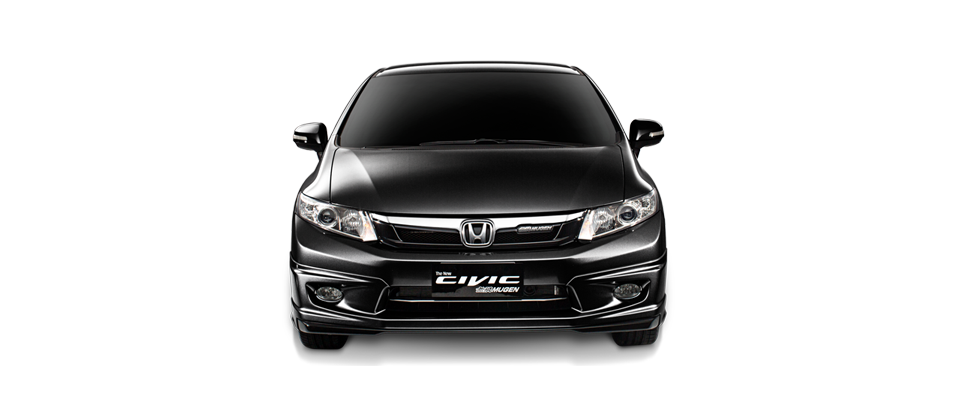
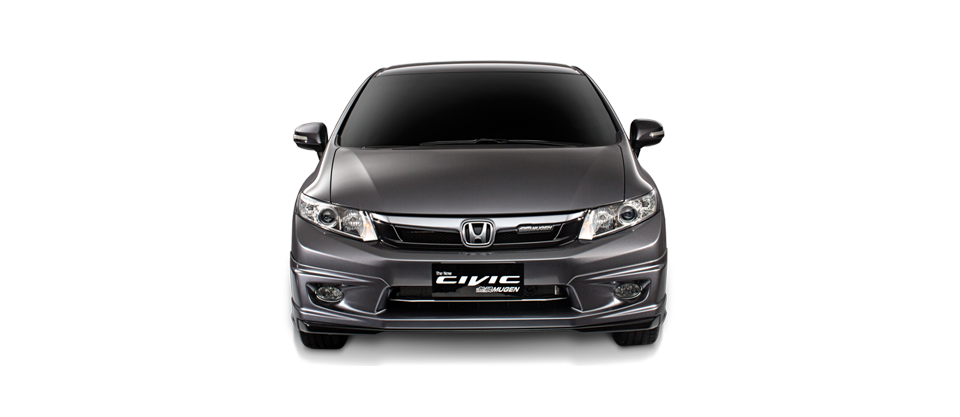
fix default car - civic

Changed region(s): [[0.2812, 0.2182, 0.7188, 0.8106], [0.375, 0.1247, 0.625, 0.2182]]

diff --git a/index.html b/index.html
@@ -703,12 +703,12 @@
 								<div class="customizer-container civic-div-car-color pull-left">
 										<p class="customizer-title">CAR PAINT</p>
 										<p class="customizer-info">Select a color for your car.</p>
-										<div class="civic-customizer-color-1 customizer-item-3 pull-left customizer-selector type-color type-default-color"><img src="images/assets/civic/buttons/color/1.png" alt="Crystal Black Pearl" width="110">
-												<p>Crystal Black Pearl</p>
-										</div>
-										<div class="civic-customizer-color-2 customizer-item-3 pull-left customizer-selector type-color"><img src="images/assets/civic/buttons/color/2.png" alt="Modern Steel Metallic" width="110">
+										<div class="civic-customizer-color-1 customizer-item-3 pull-left customizer-selector type-color type-default-color"><img src="images/assets/civic/buttons/color/1.png" alt="Modern Steel Metallic" width="110">
 												<p>Modern Steel Metallic</p>
 										</div>
+                                        <div class="civic-customizer-color-2 customizer-item-3 pull-left customizer-selector type-color"><img src="images/assets/civic/buttons/color/2.png" alt="Crystal Black Pearl" width="110">
+                                                <p>Crystal Black Pearl</p>
+                                        </div>
 										<div class="civic-customizer-color-3 customizer-item-3 customizer-item-last pull-left customizer-selector type-color"><img src="images/assets/civic/buttons/color/3.png" alt="Carnelian Red Pearl" width="110">
 												<p>Carnelian Red Pearl</p>
 										</div>

diff --git a/css/preview.css b/css/preview.css
@@ -3,10 +3,9 @@
     height: -webkit-calc( 100% - 201px);
     height: calc( 100% - 201px);
     background-color: #ffcc00;
-    background: url('../images/urbano.png'), url('../images/backgrounds/preview.png');
-    background-position: 400px 150px, center center;
-    background-size: auto, auto, 100% auto;
-    background-repeat: no-repeat;
+    background: url('../images/backgrounds/preview.png');
+    background-position: center center;
+    background-size: 100% auto;
 }
 
 .city-street {
